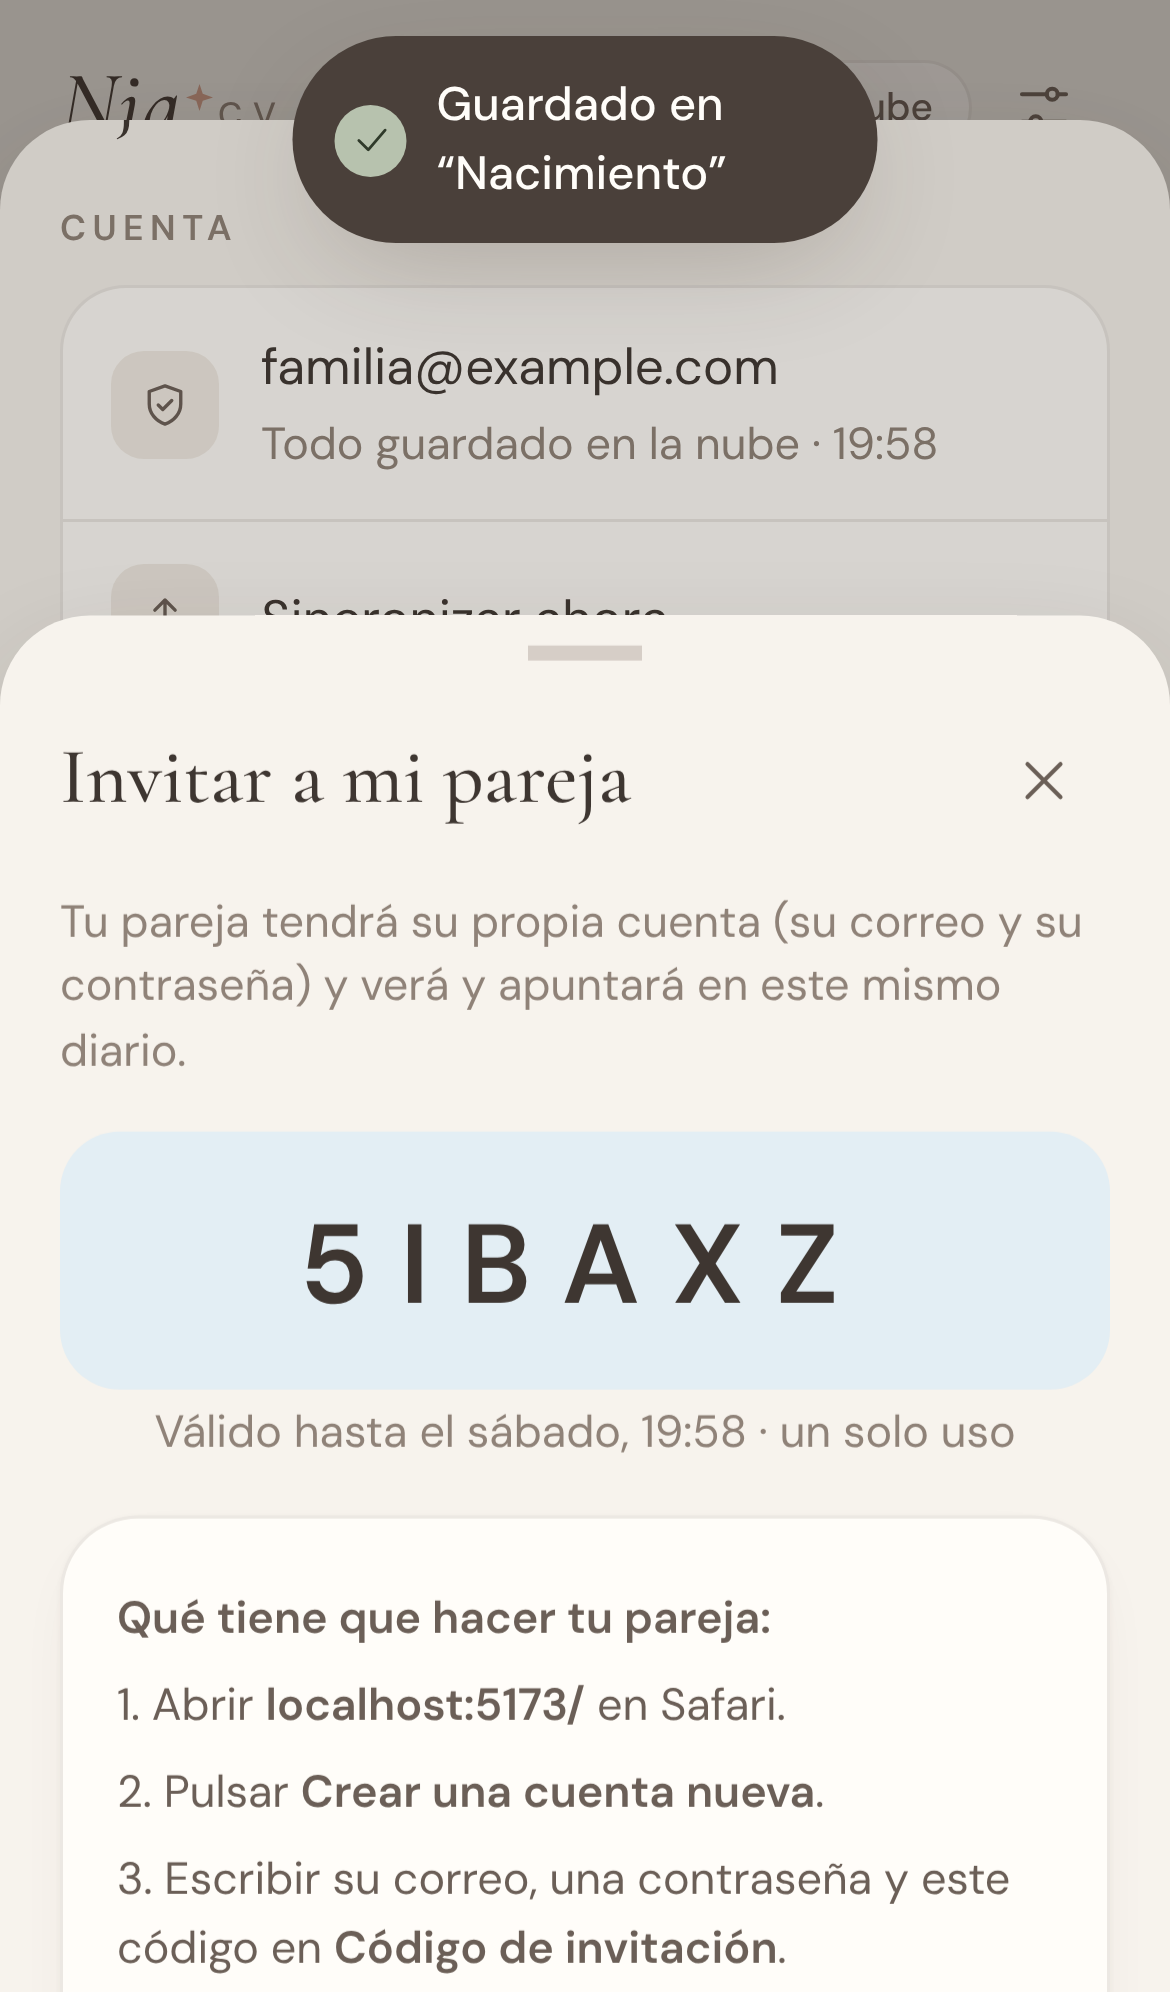
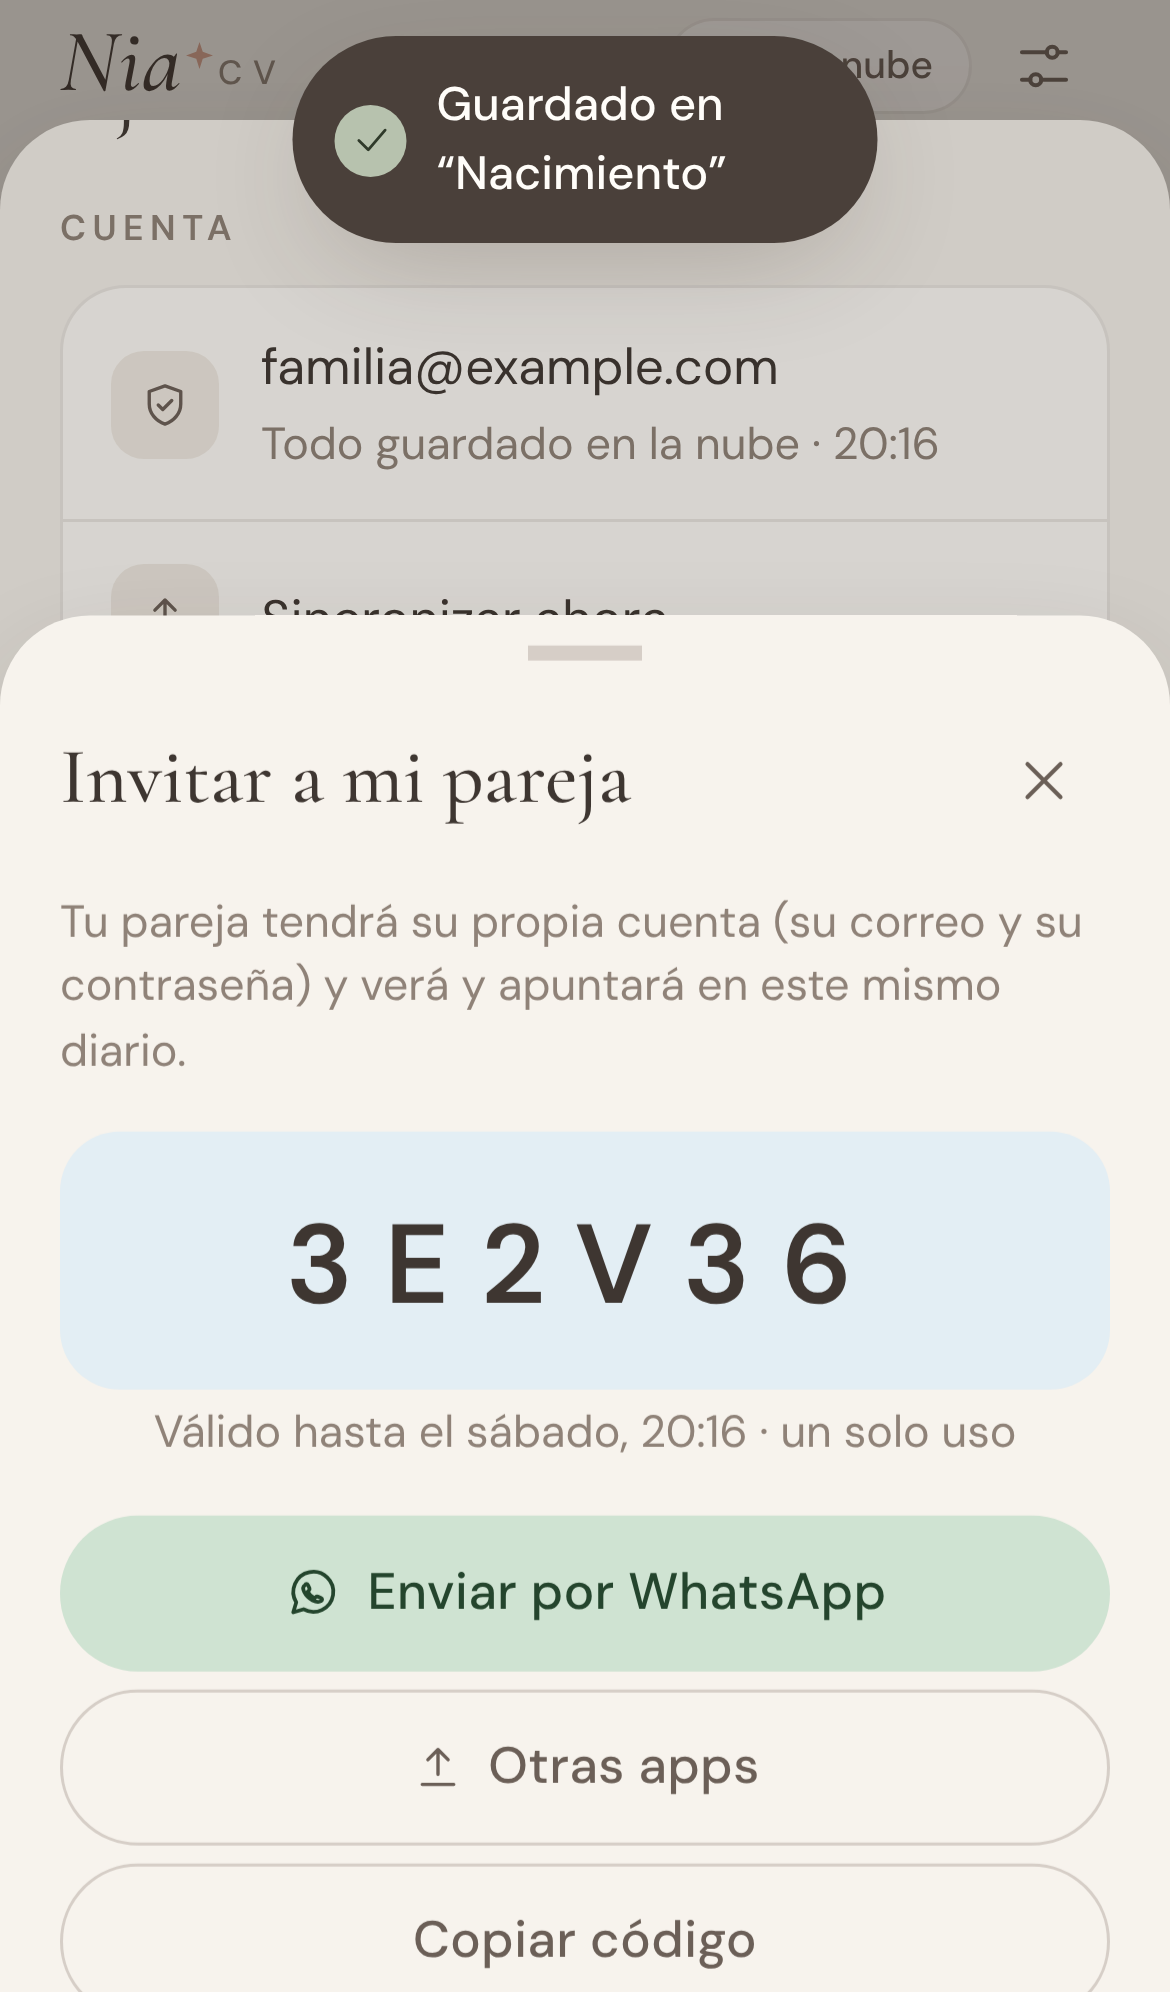
Invitar a la pareja por WhatsApp con enlace y código
El botón abre WhatsApp con el mensaje escrito (enlace + código). Al tocar el
enlace se abre Crear cuenta con el código puesto; si ya tenía cuenta, se le
pide confirmar el código. Reglas de familia aplicadas en Supabase.

Claude-Session: https://claude.ai/code/session_01DFc1ED98repwDCDXSM3sR5

diff --git a/js/views/settings.js b/js/views/settings.js
@@ -9,7 +9,7 @@ import { syncLabel } from './common.js';
 import { THEMES, getTheme, setTheme } from '../theme.js';
 import { pupIcon } from '../characters.js';
 
-export const APP_VERSION = '1.6.0';
+export const APP_VERSION = '1.7.0';
 
 const INTERVALS = [[0, 'Sin referencia'], [120, 'Cada 2 h'], [150, 'Cada 2 h 30'], [180, 'Cada 3 h'], [210, 'Cada 3 h 30'], [240, 'Cada 4 h']];
 
@@ -53,14 +53,30 @@ function familyRows() {
     <button class="settings-row danger" data-leave><span class="ico">${icons.close({ size: 18 })}</span><span class="grow">Dejar de compartir este diario</span></button>`;
 }
 
-/** Ventana con el código de invitación, para compartirlo o copiarlo. */
+/** Enlace de invitación: abre la app con el código ya escrito. */
+export const inviteLink = (code) => `${location.origin}${location.pathname}?codigo=${encodeURIComponent(code)}`;
+
+/** Mensaje de invitación (el que se envía por WhatsApp u otra app). */
+export function inviteMessage(code, babyName = 'Nia') {
+  return [
+    `¡Hola! Te invito al diario de ${babyName} en Nia CV, para que los dos podamos apuntar sus biberones, cacas y su álbum. 🍼`,
+    '',
+    `1. Abre este enlace en el iPhone: ${inviteLink(code)}`,
+    '2. Crea tu cuenta con tu correo y una contraseña.',
+    `3. Comprueba que el código de invitación es: ${code}`,
+    '',
+    'El código es de un solo uso y caduca en 48 horas.',
+  ].join('\n');
+}
+
+/** Ventana con el código de invitación, para enviarlo por WhatsApp o copiarlo. */
 async function showInvite() {
   let inv;
   try { inv = await createInvite(); } catch (e) { return toast(e.message); }
   const code = inv.codigo;
   const until = new Date(inv.caduca).toLocaleString('es-ES', { weekday: 'long', hour: '2-digit', minute: '2-digit' });
-  const url = location.origin + location.pathname;
-  const text = `Te invito al diario de ${store.settings.babyName || 'Nia'} en Nia CV.\n1. Abre ${url} en Safari.\n2. Pulsa "Crear una cuenta nueva".\n3. Escribe tu correo, una contraseña y este código de invitación: ${code}\n(El código caduca en 48 horas.)`;
+  const text = inviteMessage(code, store.settings.babyName || 'Nia');
+  const whatsapp = `https://wa.me/?text=${encodeURIComponent(text)}`;
   openSheet({
     label: 'Invitar a mi pareja',
     render(body) {
@@ -69,16 +85,17 @@ async function showInvite() {
         <p class="subtle">Tu pareja tendrá su propia cuenta (su correo y su contraseña) y verá y apuntará en este mismo diario.</p>
         <div class="invite-code" aria-label="Código ${code.split('').join(' ')}">${code}</div>
         <p class="subtle" style="text-align:center;margin:0 0 16px">Válido hasta el ${esc(until)} · un solo uso</p>
-        <div class="card prose" style="padding:16px 18px">
-          <p><strong>Qué tiene que hacer tu pareja:</strong></p>
-          <p>1. Abrir <strong>${esc(url.replace(/^https?:\/\//, ''))}</strong> en Safari.</p>
-          <p>2. Pulsar <strong>Crear una cuenta nueva</strong>.</p>
-          <p>3. Escribir su correo, una contraseña y este código en <strong>Código de invitación</strong>.</p>
-          <p>Si ya tenía cuenta: <strong>Ajustes → Familia → Tengo un código de invitación</strong>.</p>
-        </div>
-        <div class="form-actions" style="margin-top:16px">
-          <button type="button" class="btn btn-primary btn-block" data-share-invite>${icons.upload({ size: 18 })} Enviar invitación</button>
+        <div class="form-actions">
+          <a class="btn btn-whatsapp btn-block" href="${esc(whatsapp)}" target="_blank" rel="noopener" data-whatsapp>${icons.whatsapp({ size: 20 })} Enviar por WhatsApp</a>
+          <button type="button" class="btn btn-ghost btn-block" data-share-invite>${icons.upload({ size: 18 })} Otras apps</button>
           <button type="button" class="btn btn-ghost btn-block" data-copy-invite>Copiar código</button>
+        </div>
+        <div class="card prose" style="padding:16px 18px;margin-top:16px">
+          <p><strong>Qué le llegará a tu pareja:</strong> un mensaje con el enlace a Nia CV y este código.</p>
+          <p>1. Toca el enlace: se abre <strong>Crear cuenta</strong> con el código ya puesto.</p>
+          <p>2. Escribe <strong>su correo y su contraseña</strong> y pulsa <strong>Crear cuenta</strong>.</p>
+          <p>3. Comprueba que el código coincide con el que le dices tú. ¡Y ya está dentro del diario!</p>
+          <p class="subtle">Si ya tenía cuenta, el enlace le abre "Tengo un código" para confirmar.</p>
         </div>`;
       body.addEventListener('click', async (e) => {
         if (e.target.closest('[data-share-invite]')) {
@@ -93,16 +110,16 @@ async function showInvite() {
   });
 }
 
-/** Ventana para escribir un código recibido. */
-function askJoin() {
+/** Ventana para escribir un código recibido (llega ya escrito si se abrió el enlace). */
+export function askJoin(prefill = '') {
   openSheet({
     label: 'Unirme a un diario',
     render(body, close) {
-      body.innerHTML = `<form novalidate><div class="sheet-head"><h2 class="h-section">Tengo un código</h2>
+      body.innerHTML = `<form novalidate><div class="sheet-head"><h2 class="h-section">${prefill ? 'Te han invitado' : 'Tengo un código'}</h2>
           <button type="button" class="icon-btn" data-close aria-label="Cerrar">${icons.close()}</button></div>
-        <p class="subtle">Escribe el código que te ha dado tu pareja. A partir de ahora verás su diario; lo que hubieras apuntado tú en tu cuenta se queda guardado aparte.</p>
+        <p class="subtle">${prefill ? 'Comprueba que el código coincide con el que te ha dado tu pareja y pulsa Unirme.' : 'Escribe el código que te ha dado tu pareja.'} A partir de ahora verás su diario; lo que hubieras apuntado tú en tu cuenta se queda guardado aparte.</p>
         <label class="auth-field" style="margin-top:14px"><span class="eyebrow">Código de invitación</span>
-          <input class="auth-input invite-input" name="code" autocomplete="off" autocapitalize="characters" maxlength="6" placeholder="Ej. K7PM3Q"></label>
+          <input class="auth-input invite-input" name="code" value="${esc(prefill)}" autocomplete="off" autocapitalize="characters" maxlength="6" placeholder="Ej. K7PM3Q"></label>
         <p class="form-error" role="alert"></p>
         <div class="form-actions"><button type="submit" class="btn btn-primary btn-block">Unirme al diario</button></div></form>`;
       const form = $('form', body);

diff --git a/js/auth.js b/js/auth.js
@@ -25,7 +25,7 @@ export function authMessage(error) {
  * mode: 'login' | 'signup' | 'reset' | 'recovery'
  * Resuelve `onSession(session)` cuando la persona entra.
  */
-export function showAuth(root, client, { mode = 'login', onSession, notice = '' }) {
+export function showAuth(root, client, { mode = 'login', onSession, notice = '', invite = '' }) {
   const tabbar = document.getElementById('tabbar');
   if (tabbar) tabbar.hidden = true;
   root.hidden = false;
@@ -36,7 +36,11 @@ export function showAuth(root, client, { mode = 'login', onSession, notice = '' 
     reset: ['Recuperar contraseña', 'Te enviaremos un enlace al correo para elegir una nueva.'],
     recovery: ['Nueva contraseña', 'Escribe la contraseña que quieres usar a partir de ahora.'],
   };
-  const [title, sub] = titles[mode];
+  let [title, sub] = titles[mode];
+  if (mode === 'signup' && invite) {
+    title = 'Te han invitado';
+    sub = 'Crea tu cuenta con tu correo y una contraseña. El código de invitación ya está puesto: comprueba que coincide con el que te han dado.';
+  }
   const needEmail = mode !== 'recovery';
   const needPass = mode !== 'reset';
   const needRepeat = mode === 'signup' || mode === 'recovery';
@@ -58,7 +62,7 @@ export function showAuth(root, client, { mode = 'login', onSession, notice = '' 
         <input class="auth-input" type="password" name="repeat" id="auth-repeat" autocomplete="new-password" required></label>
         <p class="field-hint">Mínimo ${MIN_PASSWORD} caracteres.</p>` : ''}
       ${mode === 'signup' ? `<label class="auth-field"><span class="eyebrow">Código de invitación · opcional</span>
-        <input class="auth-input invite-input" name="invite" id="auth-invite" autocomplete="off" autocapitalize="characters" spellcheck="false" maxlength="6" placeholder="Ej. K7PM3Q"></label>
+        <input class="auth-input invite-input" name="invite" id="auth-invite" value="${esc(invite)}" autocomplete="off" autocapitalize="characters" spellcheck="false" maxlength="6" placeholder="Ej. K7PM3Q"></label>
         <p class="field-hint">Te lo da tu pareja desde Ajustes → Familia → Invitar a mi pareja.</p>` : ''}
       ${mode === 'login' || mode === 'signup' ? `<label class="remember"><input type="checkbox" name="remember" ${getRemember() ? 'checked' : ''}>
         <span><strong>Mantener la sesión iniciada</strong><br><span class="subtle">No tendrás que volver a escribir tus datos en este dispositivo.</span></span></label>` : ''}
@@ -70,6 +74,7 @@ export function showAuth(root, client, { mode = 'login', onSession, notice = '' 
         <button class="link-btn" data-mode="signup">Crear una cuenta nueva</button>
         <button class="link-btn" data-mode="signup">¿Te han invitado? Crea tu cuenta con el código</button>` : ''}
       ${mode === 'signup' || mode === 'reset' ? '<button class="link-btn" data-mode="login">Ya tengo cuenta · Entrar</button>' : ''}
+      ${mode === 'signup' && invite ? '<p class="subtle" style="text-align:center;margin:4px 0 0">Si ya tienes cuenta, entra y después confirma el código.</p>' : ''}
     </div>
     <p class="subtle auth-foot">${icons.shield({ size: 16 })} El diario solo lo ven tu cuenta y las personas que invites.</p>
     <div class="deco-row" aria-hidden="true">${paw(12)}${smallStar(8)}${paw(12)}</div>
@@ -78,7 +83,7 @@ export function showAuth(root, client, { mode = 'login', onSession, notice = '' 
   const form = $('form', root);
   const err = $('.form-error', root);
   const btn = $('button[type="submit"]', form);
-  const go = (m, n = '') => showAuth(root, client, { mode: m, onSession, notice: n });
+  const go = (m, n = '') => showAuth(root, client, { mode: m, onSession, notice: n, invite: m === 'signup' ? invite : '' });
 
   root.onclick = (e) => {
     const m = e.target.closest('[data-mode]');
@@ -111,6 +116,7 @@ export function showAuth(root, client, { mode = 'login', onSession, notice = '' 
     btn.textContent = 'Un momento…';
     try {
       if (mode === 'login') {
+        if (invite) sessionStorage.setItem('nia-cv:invite-after-login', invite);
         const { data, error } = await client.auth.signInWithPassword({ email, password });
         if (error) throw error;
         return finish(data.session);

diff --git a/js/app.js b/js/app.js
@@ -15,7 +15,7 @@ import { renderToday } from './views/today.js';
 import { renderBottles, bottleCalendarHTML } from './views/bottles.js';
 import { renderPoops } from './views/poops.js';
 import { renderDiary } from './views/diary.js';
-import { openSettings } from './views/settings.js';
+import { openSettings, askJoin } from './views/settings.js';
 import { renderProfile, openProfileForm, openAlbumMonth, setHeaderPhoto, removeHeaderPhoto } from './views/profile.js';
 
 const TABS = {
@@ -234,6 +234,17 @@ function registerSW() {
   }
 }
 
+/* Enlace de invitación (…?codigo=ABC123): se lee una vez y se quita de la dirección. */
+let inviteFromLink = '';
+function readInviteLink() {
+  try {
+    const params = new URLSearchParams(location.search);
+    const code = (params.get('codigo') || '').trim().toUpperCase();
+    if (/^[A-Z0-9]{6}$/.test(code)) inviteFromLink = code;
+    if (params.has('codigo')) history.replaceState(null, '', location.pathname + location.hash);
+  } catch { /* nada */ }
+}
+
 /* Modo cuenta: usuario y contraseña con Supabase, datos en la nube. */
 
 async function bootSupabase() {
@@ -260,7 +271,7 @@ async function bootSupabase() {
   // guardados en local; se subirán en cuanto vuelva la conexión.
   const last = readLastUser();
   if (last && getRemember() && navigator.onLine === false) return enter({ user: last }, { offline: true });
-  showAuth(authRoot, client, { mode: 'login', onSession: enter });
+  showAuth(authRoot, client, { mode: inviteFromLink ? 'signup' : 'login', invite: inviteFromLink, onSession: enter });
 }
 
 async function enter(session, { offline = false } = {}) {
@@ -295,7 +306,13 @@ async function enter(session, { offline = false } = {}) {
   start();
   registerSW();
   if (offline) toast('Sin conexión: lo que registres se subirá a la nube al volver la red.');
-  if (familyId === user.id) offerLocalImport();
+  try { const kept = sessionStorage.getItem('nia-cv:invite-after-login'); if (kept) { inviteFromLink = kept; sessionStorage.removeItem('nia-cv:invite-after-login'); } } catch { /* nada */ }
+  if (inviteFromLink && !offline) {
+    // Ya tenía sesión y ha abierto un enlace de invitación: que confirme el código.
+    if (familyId === user.id && account.family?.propietario === user.id) askJoin(inviteFromLink);
+    else toast('Ya compartes este diario');
+    inviteFromLink = '';
+  } else if (familyId === user.id) offerLocalImport();
 }
 
 function readLastUser() {
@@ -331,6 +348,7 @@ async function offerLocalImport() {
 
 async function boot() {
   applyTheme();
+  readInviteLink();
   const inClaude = typeof globalThis.claude?.use === 'function';
   if (!inClaude && SUPABASE_URL && SUPABASE_ANON_KEY && globalThis.supabase?.createClient) return bootSupabase();
   try { await store.init(); } catch (e) { return fail(e); }

diff --git a/js/art.js b/js/art.js
@@ -32,6 +32,7 @@ export const icons = {
   heart: (o) => svg('<path d="M12 19.5s-7-4.3-7-9.4A3.9 3.9 0 0 1 12 8a3.9 3.9 0 0 1 7 2.1c0 5.1-7 9.4-7 9.4Z"/>', o),
   sun: (o) => svg('<circle cx="12" cy="12" r="4"/><path d="M12 2.8v2M12 19.2v2M21.2 12h-2M4.8 12h-2M18.5 5.5l-1.4 1.4M6.9 17.1l-1.4 1.4M18.5 18.5l-1.4-1.4M6.9 6.9 5.5 5.5"/>', o),
   moon: (o) => svg('<path d="M19.5 14.5A8 8 0 0 1 9.5 4.5a8 8 0 1 0 10 10Z"/>', o),
+  whatsapp: (o) => svg('<path d="M4.5 19.5l1.2-4A8 8 0 1 1 8.6 18.3Z"/><path d="M9.2 8.6c.3-.6.9-.6 1.2 0l.6 1.3c.1.3 0 .6-.2.8l-.5.5c.6 1.2 1.5 2.1 2.7 2.7l.5-.5c.2-.2.5-.3.8-.2l1.3.6c.6.3.6.9 0 1.2-1.6 1-5.2-.6-6.7-3.6-.6-1.2-.6-2.2.3-2.8Z"/>', o),
   chart: (o) => svg('<path d="M4 20h16"/><rect x="5.5" y="11" width="3" height="6" rx="1"/><rect x="10.5" y="6" width="3" height="11" rx="1"/><rect x="15.5" y="9" width="3" height="8" rx="1"/>', o),
 };
 

diff --git a/css/styles.css b/css/styles.css
@@ -635,3 +635,7 @@ button, .chip, .quick button, .cons-opt, .step, label.btn { touch-action: manipu
 .switch::after { content: ''; position: absolute; top: 3px; left: 3px; width: 24px; height: 24px; border-radius: 50%; background: #fff; box-shadow: 0 1px 3px rgba(0,0,0,.2); transition: transform .2s; }
 .switch:checked { background: var(--sage); }
 .switch:checked::after { transform: translateX(20px); }
+
+/* Botón de WhatsApp (verde suave, dentro de la paleta) */
+.btn-whatsapp { background: #CFE3D2; color: #24452D; text-decoration: none; }
+.btn-whatsapp:active { background: #BCD8C1; }

diff --git a/sw.js b/sw.js
@@ -1,6 +1,6 @@
 // Service worker: guarda la app en caché para abrirla y usarla sin conexión.
 // Los REGISTROS no pasan por aquí: viven en IndexedDB en el dispositivo.
-const VERSION = 'nia-cv-v1.6.0';
+const VERSION = 'nia-cv-v1.7.0';
 const ASSETS = [
   './', './index.html', './manifest.webmanifest', './css/styles.css',
   './js/app.js', './js/store.js', './js/dates.js', './js/stats.js', './js/ui.js', './js/art.js',
